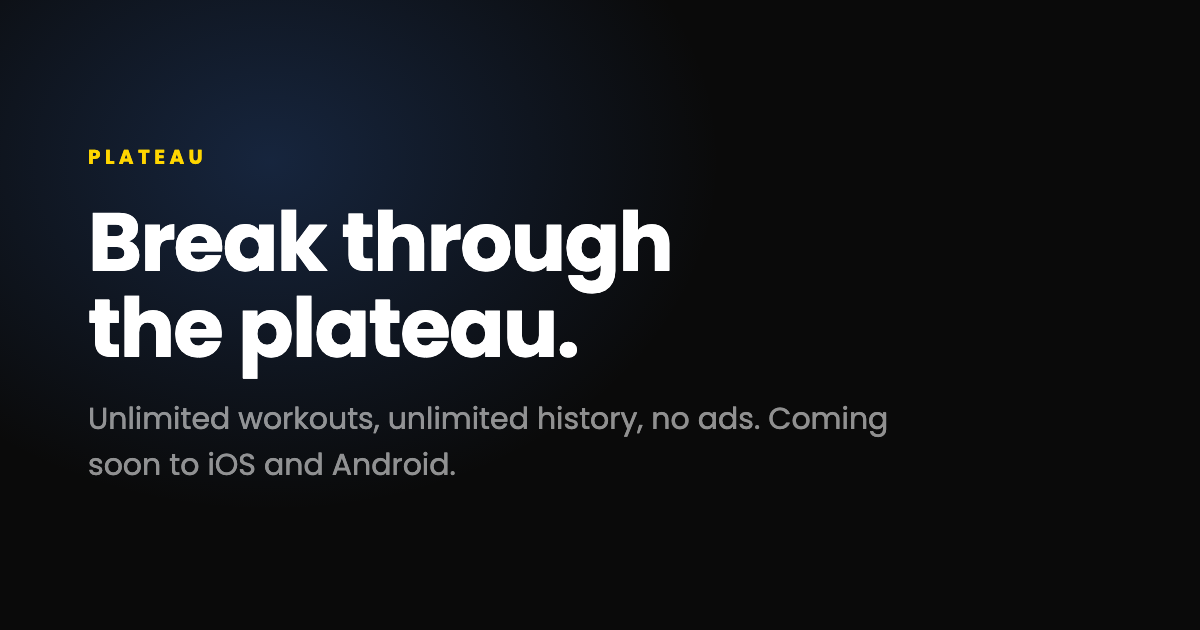
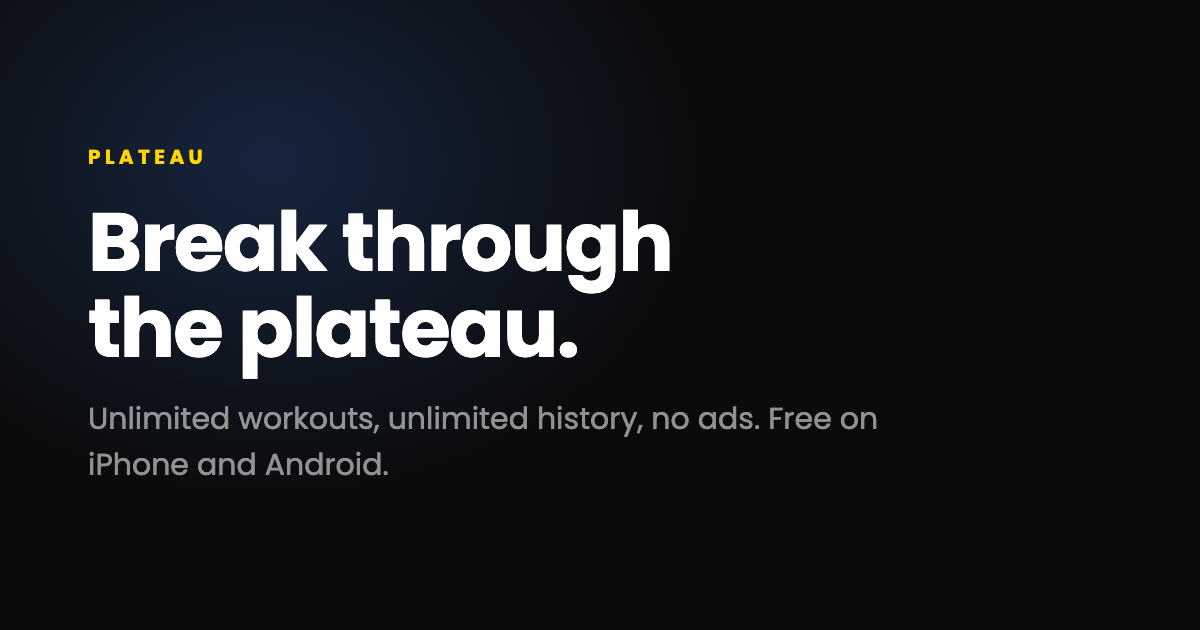
feat: turn the teaser into the page for a shipping app
The site was built to capture launch interest: a mailto "Notify me at
launch" CTA, a "Coming soon" eyebrow, and an FAQ entry explaining the app
had not shipped. All of it is replaced by the download path.

- Official App Store and Google Play badges, committed unmodified as both
  vendors require, in the hero, the pricing section and a new closing
  #download section. Google's PNG bakes its clear space into the canvas,
  so the two are given a 1.4881 height ratio to make the visible badges
  match. Footer carries the trademark attribution Google requires.
- FAQ drops the launch-timing entry and gains a cancellation answer drawn
  from the existing Terms.
- JSON-LD declares installUrl for both stores and marks every offer
  InStock.
- The social card is re-rendered without the "Coming soon" line, and its
  generator is finally committed as tools/build-og-card.sh — it had only
  ever existed as a heredoc in /tmp, so the card was unreproducible.

The guard now enforces the inverse of what it used to. Pre-launch wording
fails the build, matched against rendered text so inline markup cannot
split a phrase past it, and whole phrases are used so "See the plateau
coming." and "Coming to Pro" survive. It also gained its first positive
assertion: index.html must link to both stores, since external links are
never resolved and a removed download path would otherwise pass silently.
Both rules were proven to fire against deliberate violations.

Changed region(s): [[0.0617, 0.7238, 0.4008, 0.754], [0.6475, 0.6333, 0.74, 0.6937]]

diff --git a/index.html b/index.html
@@ -4,23 +4,23 @@
   <meta charset="utf-8">
   <meta name="viewport" content="width=device-width, initial-scale=1">
   <title>Plateau — Break through the plateau</title>
-  <meta name="description" content="Plateau is a strength tracker that shows you when you have stopped progressing — and what to do about it. Unlimited workouts, unlimited history, no ads.">
+  <meta name="description" content="Plateau is a strength tracker for iPhone and Android that shows you when you have stopped progressing — and what to do about it. Free to download: unlimited workouts, unlimited history, no ads.">
   <link rel="canonical" href="https://getplateau.app/">
   <meta property="og:type" content="website">
   <meta property="og:site_name" content="Plateau">
   <meta property="og:title" content="Plateau — Break through the plateau">
-  <meta property="og:description" content="The strength tracker that shows you when you've stopped progressing. Unlimited workouts and full history, free — no caps, no ads.">
+  <meta property="og:description" content="The strength tracker that shows you when you've stopped progressing. Free on iPhone and Android — unlimited workouts and full history, no caps, no ads.">
   <meta property="og:url" content="https://getplateau.app/">
   <meta property="og:image" content="https://getplateau.app/assets/img/og.png">
   <meta property="og:image:width" content="1200">
   <meta property="og:image:height" content="630">
   <meta name="twitter:card" content="summary_large_image">
   <meta name="twitter:title" content="Plateau — Break through the plateau">
-  <meta name="twitter:description" content="The strength tracker that shows you when you've stopped progressing. Unlimited workouts and full history, free — no caps, no ads.">
+  <meta name="twitter:description" content="The strength tracker that shows you when you've stopped progressing. Free on iPhone and Android — unlimited workouts and full history, no caps, no ads.">
   <meta name="twitter:image" content="https://getplateau.app/assets/img/og.png">
   <meta name="theme-color" content="#0A0A0A">
   <link rel="icon" href="assets/img/logo.webp" type="image/webp">
-  <!-- PRICES: reconcile with the RevenueCat products before launch. -->
+  <!-- PRICES: reconcile against the live RevenueCat products. -->
   <script type="application/ld+json">
   {
     "@context": "https://schema.org",
@@ -30,10 +30,14 @@
     "operatingSystem": "iOS, Android",
     "description": "A strength-training tracker with unlimited workout logging, full history and per-exercise progress analytics.",
     "url": "https://getplateau.app/",
+    "installUrl": [
+      "https://apps.apple.com/app/id6752913552",
+      "https://play.google.com/store/apps/details?id=boxa.dev.gymnotes.app"
+    ],
     "offers": [
-      { "@type": "Offer", "name": "Free", "price": "0", "priceCurrency": "USD" },
-      { "@type": "Offer", "name": "Pro Monthly", "price": "4.99", "priceCurrency": "USD" },
-      { "@type": "Offer", "name": "Pro Annual", "price": "29.99", "priceCurrency": "USD" }
+      { "@type": "Offer", "name": "Free", "price": "0", "priceCurrency": "USD", "availability": "https://schema.org/InStock" },
+      { "@type": "Offer", "name": "Pro Monthly", "price": "4.99", "priceCurrency": "USD", "availability": "https://schema.org/InStock" },
+      { "@type": "Offer", "name": "Pro Annual", "price": "29.99", "priceCurrency": "USD", "availability": "https://schema.org/InStock" }
     ]
   }
   </script>
@@ -51,7 +55,7 @@
         <img src="assets/img/logo.webp" width="28" height="28" alt="Plateau logo">
         <span>PLATEAU</span>
       </a>
-      <a class="btn btn--primary btn--sm" href="mailto:support@getplateau.app?subject=Notify%20me%20when%20Plateau%20launches">Notify me</a>
+      <a class="btn btn--primary btn--sm" href="#download">Get the app</a>
     </div>
   </header>
 
@@ -59,15 +63,22 @@
     <section class="hero">
       <div class="container hero__inner">
         <div class="hero__copy">
-          <p class="eyebrow">Coming soon to iOS &amp; Android</p>
+          <p class="eyebrow">Free on iPhone and Android</p>
           <h1>Break through the plateau.</h1>
           <p class="lede">The strength tracker that shows you when you&rsquo;ve stopped
             progressing &mdash; and what to do about it.</p>
-          <div class="hero__actions">
-            <a class="btn btn--primary" href="mailto:support@getplateau.app?subject=Notify%20me%20when%20Plateau%20launches">Notify me at launch</a>
-            <a class="btn btn--ghost" href="#plans">See what&rsquo;s free</a>
+          <div class="store-badges">
+            <a href="https://apps.apple.com/app/id6752913552">
+              <img class="badge-apple" src="assets/img/badge-app-store.svg" width="120" height="40"
+                   alt="Download Plateau on the App Store">
+            </a>
+            <a href="https://play.google.com/store/apps/details?id=boxa.dev.gymnotes.app">
+              <img class="badge-google" src="assets/img/badge-google-play.png" width="155" height="60"
+                   alt="Get Plateau on Google Play">
+            </a>
           </div>
-          <p class="hero__note">Unlimited workouts and full history, free — no caps, no ads.</p>
+          <p class="hero__note">Unlimited workouts and full history, free — no caps, no ads.
+            <a href="#plans">See what&rsquo;s free</a>.</p>
         </div>
         <div class="hero__shot">
           <div class="phone">
@@ -213,7 +224,7 @@
             <span class="badge">Pro</span>
             <h3>Pro</h3>
             <p class="plan__tagline">Everything in Free, plus the analysis that tells you what to change.</p>
-            <p class="plan__group">At launch</p>
+            <p class="plan__group">Included in Pro</p>
             <ul class="plan__list">
               <li><strong>Strength Dashboard</strong> &mdash; volume split by muscle group and a strength rating across your whole programme</li>
               <li><strong>Program Builder</strong> &mdash; multi-week plans that progress the weight for you</li>
@@ -236,7 +247,7 @@
           Subscribe if the analysis is worth it to you &mdash; otherwise keep using
           Plateau for nothing, indefinitely.</p>
 
-        <!-- PRICES: reconcile with the RevenueCat products before launch. -->
+        <!-- PRICES: reconcile against the live RevenueCat products. -->
         <div class="prices">
           <div class="card price">
             <h3>Monthly</h3>
@@ -252,8 +263,15 @@
         </div>
         <!-- /PRICES -->
 
-        <div class="hero__actions">
-          <a class="btn btn--primary" href="mailto:support@getplateau.app?subject=Notify%20me%20when%20Plateau%20launches">Notify me at launch</a>
+        <div class="store-badges">
+          <a href="https://apps.apple.com/app/id6752913552">
+            <img class="badge-apple" src="assets/img/badge-app-store.svg" width="120" height="40"
+                 alt="Download Plateau on the App Store">
+          </a>
+          <a href="https://play.google.com/store/apps/details?id=boxa.dev.gymnotes.app">
+            <img class="badge-google" src="assets/img/badge-google-play.png" width="155" height="60"
+                 alt="Get Plateau on Google Play">
+          </a>
         </div>
       </div>
     </section>
@@ -281,20 +299,40 @@
               the first time you view them.</p>
           </details>
           <details>
-            <summary>When does it launch?</summary>
-            <p>Plateau is in the final stretch before submission to the App Store and
-              Google Play. Leave your email and you&rsquo;ll hear the day it&rsquo;s live &mdash;
-              nothing else.</p>
+            <summary>How do I cancel Pro?</summary>
+            <p>In your App Store or Google Play account settings, not in the app.
+              Cancelling stops the next renewal; the period you have already paid for
+              runs to its end. Refunds go through Apple or Google under their own
+              policies.</p>
           </details>
           <details>
-            <summary>Which platforms?</summary>
-            <p>iPhone and Android at launch, from a single codebase.</p>
+            <summary>Which devices?</summary>
+            <p>iPhone and Android, from a single codebase.</p>
           </details>
           <details data-status="coming">
             <summary>Can I get my data out?</summary>
             <p>CSV Export is on the Pro roadmap and is not built yet. Until it ships,
               your log lives in a standard database on your own device.</p>
           </details>
+        </div>
+      </div>
+    </section>
+
+    <section class="section download reveal" id="download">
+      <div class="container">
+        <p class="eyebrow">Get Plateau</p>
+        <h2>Start logging today.</h2>
+        <p class="lede">Free to download, free to keep using. Pro is there when you want
+          the analysis on top.</p>
+        <div class="store-badges">
+          <a href="https://apps.apple.com/app/id6752913552">
+            <img class="badge-apple" src="assets/img/badge-app-store.svg" width="120" height="40"
+                 alt="Download Plateau on the App Store">
+          </a>
+          <a href="https://play.google.com/store/apps/details?id=boxa.dev.gymnotes.app">
+            <img class="badge-google" src="assets/img/badge-google-play.png" width="155" height="60"
+                 alt="Get Plateau on Google Play">
+          </a>
         </div>
       </div>
     </section>
@@ -311,7 +349,9 @@
         <a href="terms.html">Terms</a>
         <a href="mailto:support@getplateau.app">Contact</a>
       </nav>
-      <p class="site-footer__note">&copy; 2026 Plateau. Built for people who log every set.</p>
+      <p class="site-footer__note">&copy; 2026 Plateau. Built for people who log every set.<br>
+        Apple and the Apple logo are trademarks of Apple Inc. Google Play and the Google Play
+        logo are trademarks of Google LLC.</p>
     </div>
   </footer>
 

diff --git a/assets/css/styles.css b/assets/css/styles.css
@@ -401,6 +401,34 @@ img { max-width: 100%; height: auto; display: block; }
   border-radius: 0 var(--radius) var(--radius) 0;
 }
 
+/* Official store artwork, used unmodified as both vendors' guidelines require.
+   Apple's SVG is all badge; Google's PNG bakes its mandated clear space into
+   the canvas, which is why the two are given different heights — 1.4881x — so
+   the visible badges end up the same size beside each other. */
+.store-badges {
+  display: flex;
+  flex-wrap: wrap;
+  align-items: center;
+  gap: 12px;
+  margin-block: 28px 20px;
+}
+.store-badges a {
+  display: inline-flex;
+  border-radius: 8px;
+}
+.store-badges img { display: block; }
+.store-badges .badge-apple  { height: 40px; width: auto; }
+.store-badges .badge-google { height: 60px; width: auto; }
+
+@media (max-width: 400px) {
+  .store-badges .badge-apple  { height: 36px; }
+  .store-badges .badge-google { height: 54px; }
+}
+
+.download { text-align: center; }
+.download .store-badges { justify-content: center; }
+.download p { margin-inline: auto; }
+
 /* Must stay last: overrides motion declared anywhere above it by source
    order, not specificity, so nothing appended after this block can escape it. */
 @media (prefers-reduced-motion: reduce) {

diff --git a/terms.html b/terms.html
@@ -102,7 +102,9 @@
         <a href="privacy.html">Privacy</a>
         <a href="mailto:support@getplateau.app">Contact</a>
       </nav>
-      <p class="site-footer__note">&copy; 2026 Plateau. Built for people who log every set.</p>
+      <p class="site-footer__note">&copy; 2026 Plateau. Built for people who log every set.<br>
+        Apple and the Apple logo are trademarks of Apple Inc. Google Play and the Google Play
+        logo are trademarks of Google LLC.</p>
     </div>
   </footer>
 </body>

diff --git a/privacy.html b/privacy.html
@@ -104,7 +104,9 @@
         <a href="terms.html">Terms</a>
         <a href="mailto:support@getplateau.app">Contact</a>
       </nav>
-      <p class="site-footer__note">&copy; 2026 Plateau. Built for people who log every set.</p>
+      <p class="site-footer__note">&copy; 2026 Plateau. Built for people who log every set.<br>
+        Apple and the Apple logo are trademarks of Apple Inc. Google Play and the Google Play
+        logo are trademarks of Google LLC.</p>
     </div>
   </footer>
 </body>

diff --git a/tools/check.py b/tools/check.py
@@ -32,6 +32,27 @@ FORBIDDEN = {
 # data-status="coming".
 UNSHIPPED_WORDS = ["csv", "export"]
 
+# The app ships, so pre-launch framing is now a defect rather than the point.
+# Matched against rendered text like UNSHIPPED_WORDS, for the same reason:
+# a raw-HTML scan is defeated by entities and inline tags. These are whole
+# phrases on purpose — a bare "coming" would fire on the "See the plateau
+# coming." heading and on the "Coming to Pro" group label, both of which are
+# product copy and must survive.
+FORBIDDEN_PHRASES = {
+    "coming soon": "the app is released; nothing is coming soon",
+    "notify me": "leftover waitlist call to action",
+    "at launch": "launch-tense wording; say what is true now",
+    "waitlist": "there is no waitlist",
+    "pre-launch": "leftover pre-launch framing",
+}
+
+# The download path is the page's whole purpose, so its absence is a failure.
+# Nothing else can catch this: external links are never resolved, so a removed
+# store link would otherwise pass silently.
+REQUIRED_STORE_LINKS = {
+    "index.html": ["apps.apple.com", "play.google.com"],
+}
+
 # Intentional placeholders, resolved at launch and documented in the README.
 ALLOWED_TOKENS = ["PLATEAU_CONTACT_EMAIL"]
 
@@ -60,6 +81,7 @@ class PageParser(HTMLParser):
         self.has_description = False
         self.images = []          # (src, alt)
         self.local_links = []     # href/src values pointing inside the repo
+        self.external_links = []  # absolute http(s) targets, for presence checks
         self.text_chunks = []     # (text, in_coming) for every text node
         self._in_title = False
         self._coming_stack = []
@@ -78,7 +100,11 @@ class PageParser(HTMLParser):
             self.images.append((attrs.get("src", ""), attrs.get("alt")))
         for key in ("href", "src"):
             value = attrs.get(key, "")
-            if value and not value.startswith(("http://", "https://", "mailto:", "#", "data:")):
+            if not value:
+                continue
+            if value.startswith(("http://", "https://")):
+                self.external_links.append(value)
+            elif not value.startswith(("mailto:", "#", "data:")):
                 self.local_links.append(value)
         if tag in VOID:
             return
@@ -166,8 +192,22 @@ def check_page(name, failures):
         if not resolves_case_sensitively(ROOT, relative):
             failures.append(f"{name}: link {link!r} does not resolve")
 
+    for host in REQUIRED_STORE_LINKS.get(name, []):
+        if not any(host in link for link in parser.external_links):
+            failures.append(
+                f"{name}: no link to {host} — the download path is missing"
+            )
+
     full_text = " ".join(text for text, _ in parser.text_chunks)
     coming_text = " ".join(text for text, in_coming in parser.text_chunks if in_coming)
+
+    # Collapse runs of whitespace so a phrase split across a line break in the
+    # source still reads as one phrase here.
+    flat_text = re.sub(r"\s+", " ", full_text)
+    for phrase, reason in FORBIDDEN_PHRASES.items():
+        if re.search(r"\b" + re.escape(phrase).replace(r"\ ", " ") + r"\b", flat_text, re.IGNORECASE):
+            failures.append(f"{name}: says {phrase!r} — {reason}")
+
     for word in UNSHIPPED_WORDS:
         pattern = re.compile(r"\b" + re.escape(word) + r"\b", re.IGNORECASE)
         occurrences = len(pattern.findall(full_text))

diff --git a/README.md b/README.md
@@ -15,6 +15,22 @@ or serve the folder.
 Guards against false marketing claims, broken internal links, missing alt text,
 and malformed page metadata. CI runs it on every push.
 
+Rules worth knowing before you edit copy:
+
+- **Pre-launch wording fails the build.** `coming soon`, `notify me`,
+  `at launch`, `waitlist` and `pre-launch` are matched against the page's
+  rendered text, so splitting one across tags (`Coming <b>soon</b>`) does not
+  get past it. Whole phrases are matched deliberately: the heading "See the
+  plateau coming." and the "Coming to Pro" group label are product copy and
+  must keep working.
+- **The store links are required.** `index.html` must link to both
+  `apps.apple.com` and `play.google.com`. Removing the download path fails the
+  build rather than shipping a page with nowhere to go.
+- **Unbuilt features must be labelled.** Anything matching `csv` or `export`
+  may appear only inside an element carrying `data-status="coming"`. CSV Export
+  is still on the roadmap; when it ships, drop both the attribute and the
+  `UNSHIPPED_WORDS` entry.
+
 ## Deploying
 
 The site publishes from `main` via GitHub Actions
@@ -24,23 +40,34 @@ Every push to `main` runs `tools/check.py` as a gate before the deploy job
 runs, so a push that would publish a false claim fails before it reaches
 Pages.
 
-## Before launch — remaining items
+## Maintenance
 
-**Contact address.** Replace `PLATEAU_CONTACT_EMAIL` with the published
-address in all three pages.
+**Prices.** Two places hard-code the $4.99 / $29.99 Pro prices, both wrapped in
+`<!-- PRICES … -->` fence comments so they are easy to find: the visible cards
+in `index.html`'s `#pricing` section, and the `offers` array in the JSON-LD
+block in the `<head>`. They are still a market assumption — reconcile them
+against the live RevenueCat products.
 
-This is reported as a `NOTE:` line by `tools/check.py` until resolved.
+**Store badges.** `assets/img/badge-app-store.svg` and
+`assets/img/badge-google-play.png` are the official artwork from Apple and
+Google, committed unmodified as both vendors' guidelines require. Google's PNG
+bakes its mandated clear space into the canvas, which is why the two are given
+different CSS heights — a 1.4881 ratio — so the visible badges match. The
+trademark attribution in the footer is a Google requirement; do not drop it.
 
-**Prices.** Two places hard-code the $4.99 / $29.99 Pro prices and both are
-wrapped in `<!-- PRICES: reconcile with the RevenueCat products before
-launch. -->` fence comments so they're easy to find: the visible pricing
-cards in `index.html`'s `#pricing` section, and the `offers` array in the
-JSON-LD block in `index.html`'s `<head>`. Reconcile both against the live
-RevenueCat products before publishing.
+**Social card.**
 
-## Regenerating screenshots
+    ./tools/build-og-card.sh
+
+Rebuilds `assets/img/og.png` at 1200×630. Run it whenever the headline or the
+availability line changes — `og:image` is what every shared link shows, and
+nothing else in the project notices a stale card. The script refuses to leave
+a wrongly sized file behind.
+
+**Screenshots.**
 
     ./tools/capture-screenshots.sh
 
 Requires a booted iOS simulator running the Plateau dev build. See the script
-header for the full procedure.
+header for the full procedure. Replacements must stay 603×1307 or the
+`width`/`height` attributes in `index.html` have to change with them.
